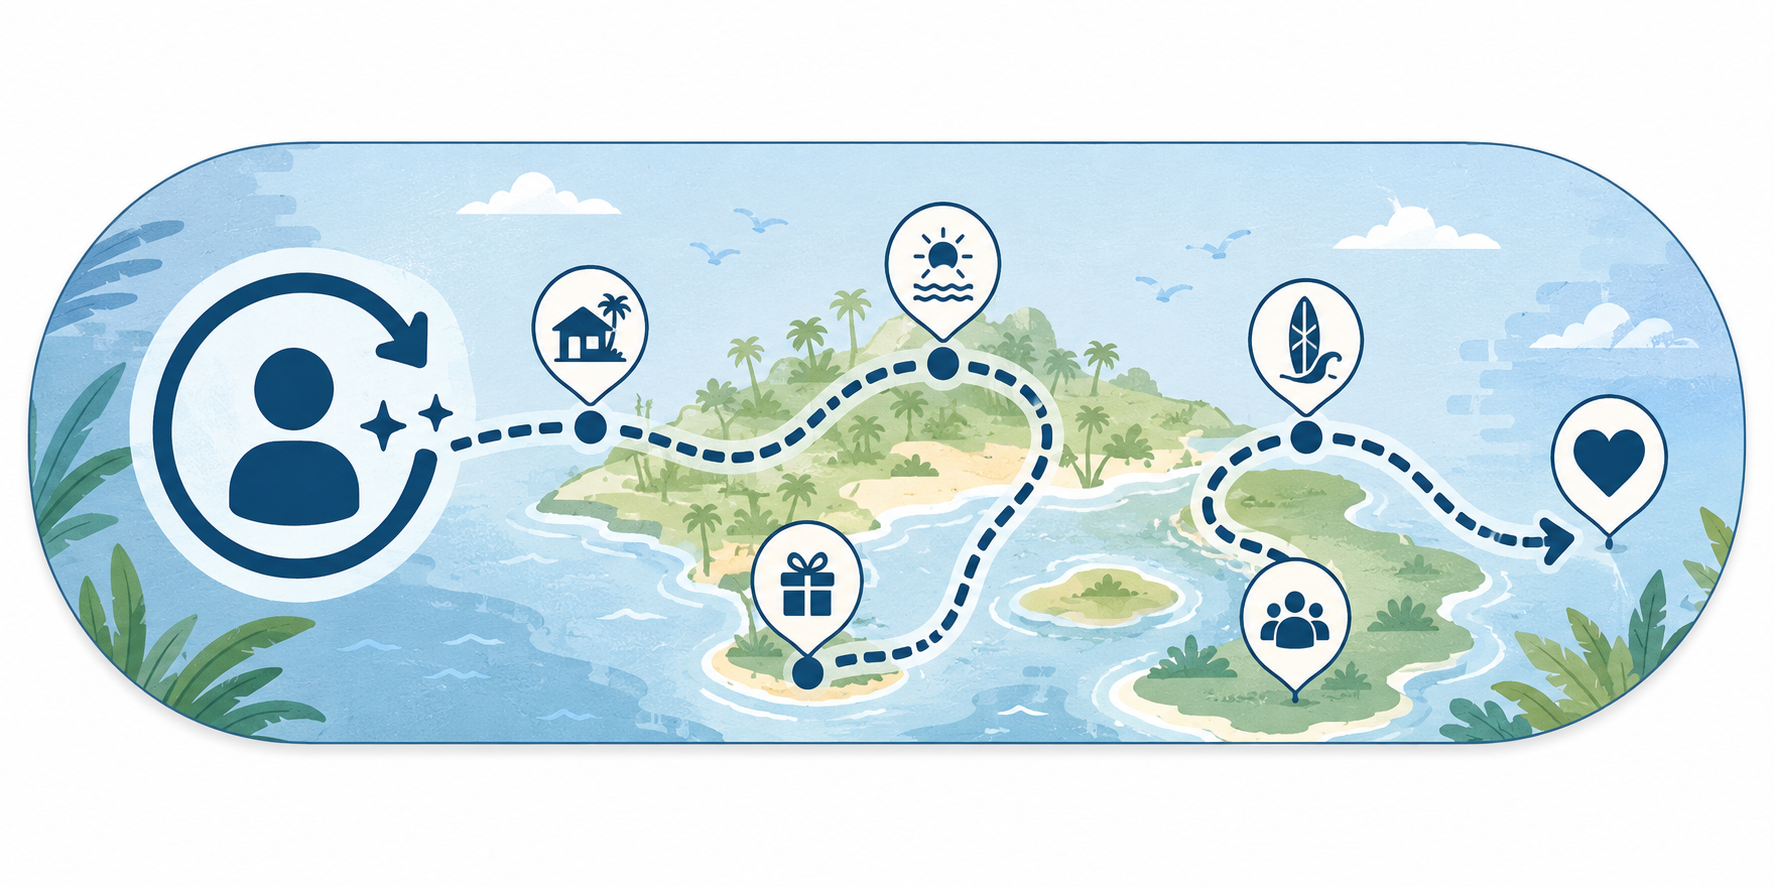
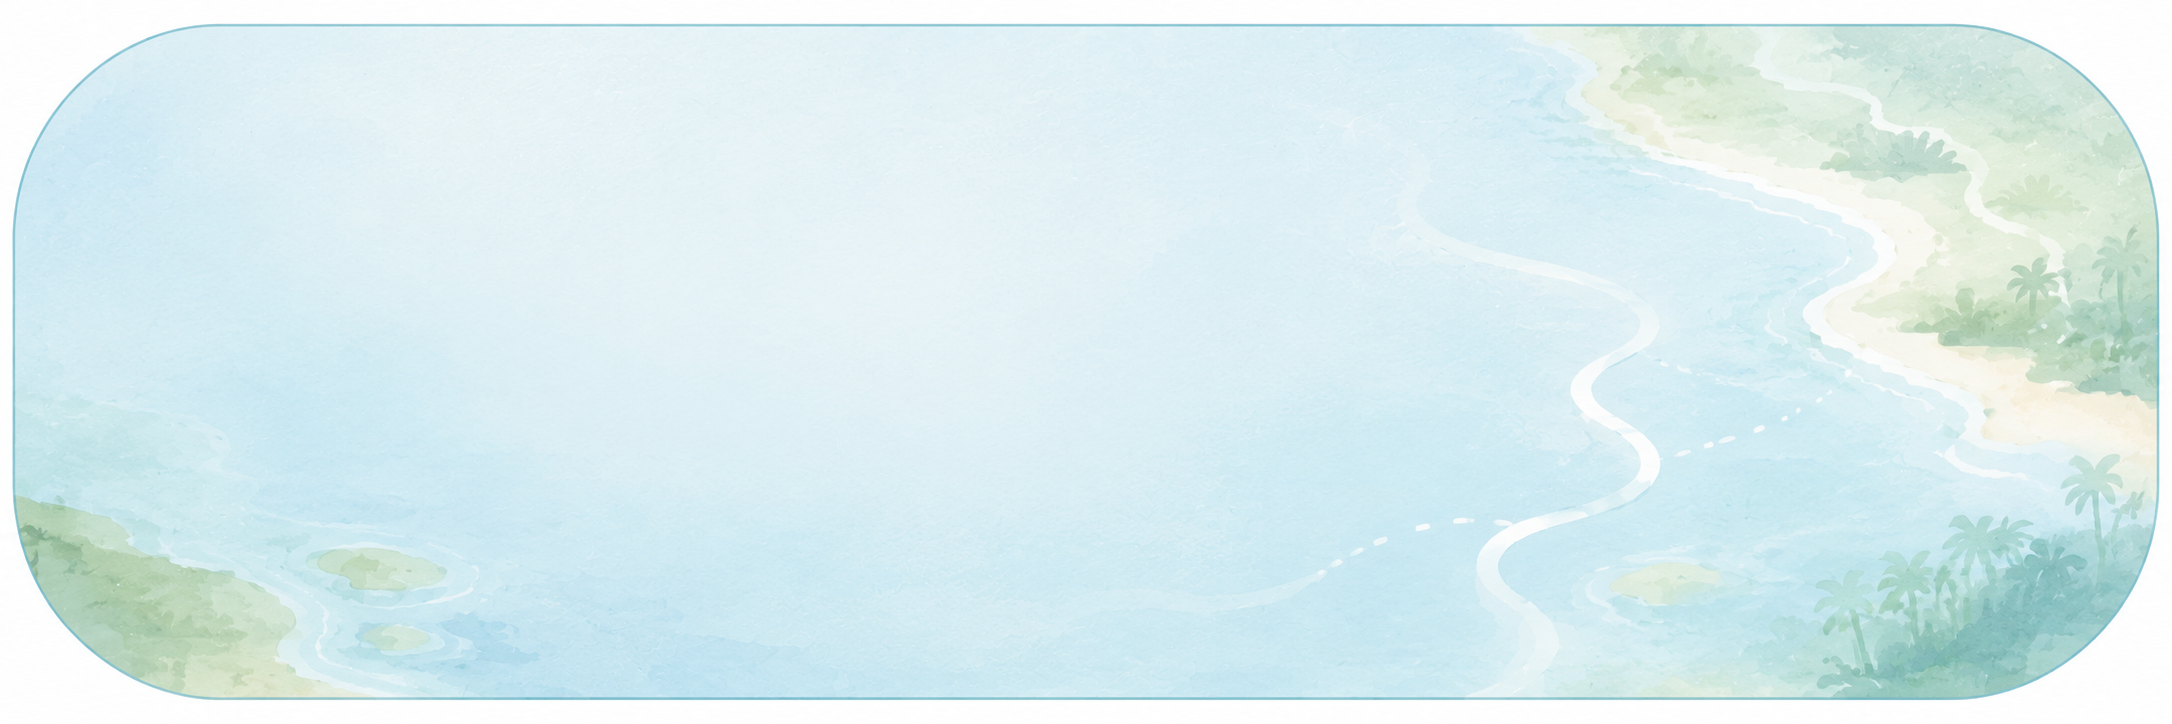
feat(traveler): wire home and passport map creatives

diff --git a/frontend/app/traveler/home/page.tsx b/frontend/app/traveler/home/page.tsx
@@ -960,6 +960,7 @@ async function TravelerHomeQuickAccessGrid() {
       href: "/traveler/passport-map",
       status: "Map",
       button: "Open Map",
+      mediaSrc: "/osp/traveler/home/quick-access/passport-map.png",
       icon: (
         <svg viewBox="0 0 24 24" width="21" height="21" fill="none" aria-hidden="true">
           <path d="M9 18l-5 2V6l5-2 6 2 5-2v14l-5 2-6-2Z" stroke="currentColor" strokeWidth="1.8" strokeLinejoin="round" />
@@ -985,6 +986,7 @@ async function TravelerHomeQuickAccessGrid() {
       href: cloud9Point?.qrDefinition?.publicScanUrl || "/traveler/site-access/cloud-9",
       status: "Active",
       button: "Open Access",
+      mediaSrc: "/osp/traveler/home/quick-access/cloud-9-access.png", // OSP_HOME_CLOUD9_ACCESS_DATA_DRIVEN_CARD_MEDIA_14D
       icon: (
         <svg viewBox="0 0 24 24" width="21" height="21" fill="none" aria-hidden="true">
           <path d="M3.5 15.5c2.8 0 3.4-2.2 5.8-2.2s3 2.2 5.7 2.2 3.4-2.2 5.5-2.2" stroke="currentColor" strokeWidth="1.9" strokeLinecap="round" />
@@ -1010,6 +1012,7 @@ async function TravelerHomeQuickAccessGrid() {
       href: mksPoint?.qrDefinition?.publicScanUrl || "/traveler/site-access/malinao-skate-park",
       status: mksPoint?.accessRule === "SITE_VISIT_LOG" ? "Validated" : "Validated",
       button: "View Point",
+      mediaSrc: "/osp/traveler/home/quick-access/malinao-skate-park.png", // OSP_HOME_MALINAO_SKATE_PARK_FORCE_MEDIASRC_14E2
       icon: (
         <svg viewBox="0 0 24 24" width="21" height="21" fill="none" aria-hidden="true">
           <path d="M6.2 13.4h9.1c1.5 0 2.8-.9 3.3-2.3l.3-.8" stroke="currentColor" strokeWidth="1.8" strokeLinecap="round" strokeLinejoin="round" />
@@ -1036,6 +1039,7 @@ async function TravelerHomeQuickAccessGrid() {
       href: afamPoint?.qrDefinition?.publicScanUrl || "/traveler/site-access/afam-catangnan-bridge",
       status: afamPoint?.accessRule === "SITE_VISIT_LOG" ? "Site Visit" : "Site Visit",
       button: "View Point",
+      mediaSrc: "/osp/traveler/home/quick-access/afam-catangnan-bridge.png", // OSP_HOME_AFAM_CATANGNAN_BRIDGE_DATA_DRIVEN_CARD_MEDIA_14F
       icon: (
         <svg viewBox="0 0 24 24" width="21" height="21" fill="none" aria-hidden="true">
           <path d="M4 15.5h16" stroke="currentColor" strokeWidth="1.8" strokeLinecap="round" />
@@ -1152,7 +1156,8 @@ async function TravelerHomeQuickAccessGrid() {
               minHeight: card.title === "Passport Map" ? 78 : 70,
               padding: card.title === "Passport Map" ? "14px 14px" : "12px 14px",
               borderRadius: 22,
-              background: card.shell,
+              // OSP_HOME_PASSPORT_MAP_DATA_DRIVEN_CARD_MEDIA_14C
+              background: card.mediaSrc ? `url(${card.mediaSrc}) center / cover no-repeat` : card.shell,
               border: `1px solid ${card.border}`,
               boxShadow:
                 card.title === "Passport Map"
@@ -1188,7 +1193,8 @@ async function TravelerHomeQuickAccessGrid() {
                     fontSize: card.title === "Passport Map" ? 14.5 : 13.5,
                     lineHeight: 1.15,
                     fontWeight: 900,
-                    color: card.titleColor,
+                    color: card.mediaSrc ? "#FFFFFF" : card.titleColor, // OSP_HOME_QUICK_ACCESS_MEDIA_TEXT_WHITE_14L
+                    textShadow: card.mediaSrc ? "0 2px 8px rgba(1,24,48,0.78)" : "none",
                     letterSpacing: "-0.015em",
                   }}
                 >
@@ -1222,7 +1228,8 @@ async function TravelerHomeQuickAccessGrid() {
                   fontSize: 11.5,
                   lineHeight: 1.35,
                   fontWeight: 700,
-                  color: card.subtitleColor,
+                  color: card.mediaSrc ? "rgba(255,255,255,0.96)" : card.subtitleColor,
+                  textShadow: card.mediaSrc ? "0 2px 8px rgba(1,24,48,0.74)" : "none",
                 }}
               >
                 {card.subtitle}
@@ -1260,89 +1267,100 @@ async function TravelerHomeQuickAccessGrid() {
 
 
 function TravelerJourneyCard(props: {
+  href: string;
   title: string;
   subtitle: string;
-  href: string;
-  icon: any;
   shellBg: string;
   borderColor: string;
   chipBg: string;
   accentColor: string;
+  icon: React.ReactNode;
+  mediaSrc?: string;
 }) {
+  const hasMedia = Boolean(props.mediaSrc);
+
   return (
     <a
       href={props.href}
       style={{
-        border: `1px solid ${props.borderColor}`,
+        // OSP_HOME_REPAIR_JOURNEY_CARD_AND_TRIPS_MEDIA_14H3
+        minHeight: 112,
         borderRadius: 18,
-        background: props.shellBg,
-        padding: "8px 9px",
-        minHeight: 96,
-        textDecoration: "none",
-        boxShadow: "0 8px 22px rgba(15,23,42,0.045)",
+        padding: 12,
         display: "flex",
         flexDirection: "column",
         justifyContent: "space-between",
-        color: "inherit",
+        textDecoration: "none",
+        background: hasMedia
+          ? `url(${props.mediaSrc}) center / cover no-repeat`
+          : props.shellBg,
+        border: `1px solid ${props.borderColor}`,
+        boxShadow: "0 14px 32px rgba(8, 54, 84, 0.08)",
+        overflow: "hidden",
+        position: "relative",
       }}
     >
       <div
         style={{
-          width: 32,
-          height: 32,
-          borderRadius: 10,
-          background: props.chipBg,
+          width: 34,
+          height: 34,
+          borderRadius: 12,
+          background: hasMedia ? "rgba(255,255,255,0.84)" : props.chipBg,
           border: `1px solid ${props.borderColor}`,
           color: props.accentColor,
-          display: "flex",
-          alignItems: "center",
-          justifyContent: "center",
-          boxShadow: "inset 0 1px 0 rgba(255,255,255,0.72)",
+          display: "grid",
+          placeItems: "center",
+          flex: "0 0 auto",
+          boxShadow: hasMedia ? "0 8px 18px rgba(1,42,69,0.14)" : "none",
         }}
       >
         {props.icon}
       </div>
 
       <div>
-        <div
+        <strong
           style={{
-            marginTop: 6,
-            fontSize: 11,
-            fontWeight: 950,
-            lineHeight: 1.08,
-            color: "#19305a",
-            letterSpacing: "-0.015em",
+            display: "block",
+            color: "#013863",
+            fontSize: 13,
+            lineHeight: 1.04,
+            fontWeight: 900,
+            letterSpacing: "-0.02em",
+            textShadow: hasMedia ? "0 1px 5px rgba(255,255,255,0.9)" : "none",
           }}
         >
           {props.title}
-        </div>
-        <div
+        </strong>
+        <p
           style={{
-            marginTop: 2,
-            fontSize: 8.5,
-            fontWeight: 750,
-            lineHeight: 1.18,
-            color: "#52677f",
+            margin: "3px 0 0",
+            color: "#123B63",
+            fontSize: 10.5,
+            lineHeight: 1.14,
+            fontWeight: 800,
+            textShadow: hasMedia ? "0 1px 5px rgba(255,255,255,0.86)" : "none",
           }}
         >
           {props.subtitle}
-        </div>
-        <div
-          style={{
-            marginTop: 4,
-            fontSize: 7.1,
-            fontWeight: 950,
-            letterSpacing: "0.08em",
-            textTransform: "uppercase",
-            color: props.accentColor,
-          }}
-        >
-          Open
-        </div>
+        </p>
       </div>
+
+      <span
+        style={{
+          color: props.accentColor,
+          fontSize: 9,
+          fontWeight: 950,
+          letterSpacing: "0.08em",
+          textTransform: "uppercase",
+          textShadow: hasMedia ? "0 1px 5px rgba(255,255,255,0.88)" : "none",
+        }}
+      >
+        Open
+      </span>
     </a>
   );
 }
+
 
 function TravelerBottomNavLink(props: {
   href: string;
@@ -2246,6 +2264,7 @@ function TravelerReassuranceAndJourney(props: {
             href={rootPreview ? "/traveler/start" : "/traveler/trips"}
             title={tripsTitle}
             subtitle={tripsSubtitle}
+              mediaSrc="/osp/traveler/home/continue-your-journey/trips.png"
             shellBg="#eff6ff"
             borderColor="#cfe0f7"
             chipBg="#dceeff"
@@ -2263,6 +2282,7 @@ function TravelerReassuranceAndJourney(props: {
             href="/traveler/payments"
             title={paymentsTitle}
             subtitle={paymentsSubtitle}
+            mediaSrc="/osp/traveler/home/continue-your-journey/payments-receipts.png" // OSP_HOME_PAYMENTS_RECEIPTS_CARD_MEDIA_14I
             shellBg="#fff8eb"
             borderColor="#f6e1b5"
             chipBg="#fef0c7"
@@ -3021,6 +3041,7 @@ export default async function TravelerHomePage() {
               title="Trips"
               subtitle="Plans & records"
               href="/traveler/trips"
+              mediaSrc="/osp/traveler/home/continue-your-journey/trips.png"
               shellBg="#eff6ff"
               borderColor="#bfdbfe"
               chipBg="#dbeafe"
@@ -3037,6 +3058,7 @@ export default async function TravelerHomePage() {
               title="Payments & Receipts"
               subtitle="Payments & receipts"
               href="/traveler/payments"
+              mediaSrc="/osp/traveler/home/continue-your-journey/payments-receipts.png"
               shellBg="#fff7ed"
               borderColor="#fed7aa"
               chipBg="#ffedd5"
@@ -3049,10 +3071,12 @@ export default async function TravelerHomePage() {
               }
             />
 
-            <TravelerJourneyCard
+            {/* OSP_HOME_MY_PASS_VISIBLE_CARD_FORCE_MEDIA_14J2 */}
+<TravelerJourneyCard
               title="My Pass"
               subtitle="Show your QR identity and trip pass"
               href="/traveler/pass"
+              mediaSrc="/osp/traveler/home/continue-your-journey/my-pass.png"
               shellBg="#ecfeff"
               borderColor="#a5f3fc"
               chipBg="#cffafe"
@@ -3065,10 +3089,12 @@ export default async function TravelerHomePage() {
               }
             />
 
-            <TravelerJourneyCard
+            {/* OSP_HOME_EXPLORE_SIARGAO_CARD_MEDIA_14K */}
+<TravelerJourneyCard
               title="Explore Siargao"
               subtitle="Discover stays, tours, trails, and local spots"
               href="/traveler/explore"
+              mediaSrc="/osp/traveler/home/continue-your-journey/explore-siargao.png"
               shellBg="#F4FCFA"
               borderColor="rgba(5,150,165,0.22)"
               chipBg="#EAFBFA"

diff --git a/frontend/app/traveler/passport-map/page.tsx b/frontend/app/traveler/passport-map/page.tsx
@@ -420,7 +420,74 @@ export default async function TravelerPassportMapPage() {
             color: rgba(255,255,255,0.94) !important;
             text-shadow: 0 1px 6px rgba(1, 24, 48, 0.78) !important;
           }
-            `,
+            
+
+          /* OSP_PASSPORT_MAP_CAPSULE_TEXT_BLUE_11D */
+          [style*="/osp/spm/passport-map/return-traveler-continuity.png"] h1,
+          [style*="/osp/spm/passport-map/return-traveler-continuity.png"] h2,
+          [style*="/osp/spm/passport-map/return-traveler-continuity.png"] h3,
+          [style*="/osp/spm/passport-map/return-traveler-continuity.png"] h4,
+          [style*="/osp/spm/passport-map/return-traveler-continuity.png"] strong,
+          [style*="/osp/spm/passport-map/return-traveler-continuity.png"] p,
+          [style*="/osp/spm/passport-map/check-trail-hierarchy.png"] h1,
+          [style*="/osp/spm/passport-map/check-trail-hierarchy.png"] h2,
+          [style*="/osp/spm/passport-map/check-trail-hierarchy.png"] h3,
+          [style*="/osp/spm/passport-map/check-trail-hierarchy.png"] h4,
+          [style*="/osp/spm/passport-map/check-trail-hierarchy.png"] strong,
+          [style*="/osp/spm/passport-map/check-trail-hierarchy.png"] p,
+          [style*="/osp/spm/passport-map/your-passport-progress.png"] h1,
+          [style*="/osp/spm/passport-map/your-passport-progress.png"] h2,
+          [style*="/osp/spm/passport-map/your-passport-progress.png"] h3,
+          [style*="/osp/spm/passport-map/your-passport-progress.png"] h4,
+          [style*="/osp/spm/passport-map/your-passport-progress.png"] strong,
+          [style*="/osp/spm/passport-map/your-passport-progress.png"] p,
+          [style*="/osp/spm/passport-map/guide-support.png"] h1,
+          [style*="/osp/spm/passport-map/guide-support.png"] h2,
+          [style*="/osp/spm/passport-map/guide-support.png"] h3,
+          [style*="/osp/spm/passport-map/guide-support.png"] h4,
+          [style*="/osp/spm/passport-map/guide-support.png"] strong,
+          [style*="/osp/spm/passport-map/guide-support.png"] p {
+            color: #013863 !important;
+            text-shadow: 0 1px 4px rgba(255, 255, 255, 0.88) !important;
+          }
+
+          [style*="/osp/spm/passport-map/return-traveler-continuity.png"] small,
+          [style*="/osp/spm/passport-map/return-traveler-continuity.png"] em,
+          [style*="/osp/spm/passport-map/check-trail-hierarchy.png"] small,
+          [style*="/osp/spm/passport-map/check-trail-hierarchy.png"] em,
+          [style*="/osp/spm/passport-map/your-passport-progress.png"] small,
+          [style*="/osp/spm/passport-map/your-passport-progress.png"] em,
+          [style*="/osp/spm/passport-map/guide-support.png"] small,
+          [style*="/osp/spm/passport-map/guide-support.png"] em {
+            color: rgba(1, 56, 99, 0.88) !important;
+            text-shadow: 0 1px 4px rgba(255, 255, 255, 0.88) !important;
+          }
+
+
+          /* OSP_PASSPORT_MAP_FLEXIBLE_TRAIL_TEXT_BLUE_11E */
+          [style*="/osp/spm/passport-map/flexible-trail/build-your-own-passport-trail.png"] h1,
+          [style*="/osp/spm/passport-map/flexible-trail/build-your-own-passport-trail.png"] h2,
+          [style*="/osp/spm/passport-map/flexible-trail/build-your-own-passport-trail.png"] h3,
+          [style*="/osp/spm/passport-map/flexible-trail/build-your-own-passport-trail.png"] h4,
+          [style*="/osp/spm/passport-map/flexible-trail/build-your-own-passport-trail.png"] strong,
+          [style*="/osp/spm/passport-map/flexible-trail/build-your-own-passport-trail.png"] p,
+          [style*="/osp/spm/passport-map/flexible-trail/build-your-own-passport-trail.png"] small,
+          [style*="/osp/spm/passport-map/flexible-trail/build-your-own-passport-trail.png"] em,
+          [style*="/osp/spm/passport-map/flexible-trail/build-your-own-passport-trail.png"] a,
+          [style*="/osp/spm/passport-map/flexible-trail/build-your-own-passport-trail.png"] button {
+            color: #013863 !important;
+            text-shadow: 0 1px 4px rgba(255,255,255,0.82) !important;
+          }
+
+          /* Keep the primary CTA (Start route) white */
+          [style*="/osp/spm/passport-map/flexible-trail/build-your-own-passport-trail.png"] a:first-of-type,
+          [style*="/osp/spm/passport-map/flexible-trail/build-your-own-passport-trail.png"] a:first-of-type *,
+          [style*="/osp/spm/passport-map/flexible-trail/build-your-own-passport-trail.png"] button:first-of-type,
+          [style*="/osp/spm/passport-map/flexible-trail/build-your-own-passport-trail.png"] button:first-of-type * {
+            color: #FFFFFF !important;
+            text-shadow: none !important;
+          }
+`,
           }}
         />
 
@@ -2389,6 +2456,7 @@ function SpmFeaturedPartnerTours() {
 }
 
 
+// OSP_PASSPORT_MAP_FEATURED_TRAIL_HERO_PAGE_CARD_10K
 function SpmCuratedPassportTours() {
   const officialTrails = [
     {
@@ -2611,7 +2679,7 @@ function SpmCuratedPassportTours() {
       }}
     >
       <img
-        src="/osp/spm/trails/island-hopping-route-illustration.png?v=02a"
+        src="/osp/spm/passport-map/featured-trail/island-hopping-passport-trail-hero-page-card.png"
         alt=""
         aria-hidden="true"
         style={{
@@ -2620,7 +2688,7 @@ function SpmCuratedPassportTours() {
           width: "100%",
           height: "100%",
           objectFit: "cover",
-          objectPosition: "center right",
+          objectPosition: "center",
           opacity: 0.98,
           pointerEvents: "none",
           filter: "saturate(1.03) contrast(1.01)",

diff --git a/frontend/app/traveler/site-access/cloud-9/page.tsx b/frontend/app/traveler/site-access/cloud-9/page.tsx
@@ -1,11 +1,12 @@
 import Link from "next/link";
 
+// OSP_CLOUD9_SITE_ACCESS_BANNER_12A
 const CLOUD9 = {
   title: "Cloud 9 Access",
   eyebrow: "LGU SITE ACCESS",
   subtitle: "Boardwalk entry for surf viewing, photos, and a short coastal stop.",
   heroImage:
-    "https://images.unsplash.com/photo-1507525428034-b723cf961d3e?auto=format&fit=crop&w=1200&q=80",
+    "/osp/spm/passport-map/site-visit/cloud-9-access.png",
   chips: ["Surf landmark", "Boardwalk", "Quick stop"],
   stats: [
     { label: "BEST TIME", value: "Daylight visit" },
